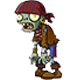
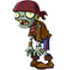
newspaper zombie, drop head features added in

diff --git a/controllers/game.py b/controllers/game.py
@@ -1,12 +1,11 @@
 from controllers.base import PygameController
 import pygame
 import random
-from models import Map, Sunflower, PeaShooter, Norzombie, GameState, SnowPea, Wallnut, Buckethead, LycheeBomb
+from models import Map, Sunflower, PeaShooter, Norzombie, GameState, SnowPea, Wallnut, Buckethead, LycheeBomb, Newspaper, newspaper
 from views import MainView
 from datetime import datetime
 import threading
 import requests
-
 
 class GameController(PygameController):
     def __init__(self, username):
@@ -54,14 +53,25 @@ class GameController(PygameController):
         some time to plant sunflower first, since I only draw a 800*560 pygame interface
         player may not see zombies when it spawns. Once it walks in to my interface,
         player can see it """
+        time_count = 0
         for i in range(1, 7):
             normaldis = random.randint(1,3) * 200
-            normalzombie = Norzombie(800+ normaldis, i * 80, self, self.MainView)
-            self.zombie_list.append(normalzombie)
-
+            normalzombie = Norzombie(800 + normaldis, i * 80, self, self.MainView)
             bucketdis = random.randint(12,20) * 50
-            buckethead = Buckethead(800+ bucketdis, i * 80, self, self.MainView)
-            self.zombie_list.append(buckethead)
+            buckethead = Buckethead(800 + bucketdis, i * 80, self, self.MainView)
+            newsdis = random.randint(2,5) * 100
+            newspaper = Newspaper(800 + newsdis, i * 80, self, self.MainView)
+            news = time_count // 5
+            buck = time_count // 10
+            if news != 0 or buck != 0 or time_count == 0:
+                self.zombie_list.append(normalzombie)
+                time_count += 1
+            if news == 0:
+                self.zombie_list.append(newspaper)
+                time_count += 1
+            if buck // 10 == 0:
+                self.zombie_list.append(buckethead)
+                time_count += 2
 
 ###-------create part done-------------------------------------
 
@@ -83,6 +93,8 @@ class GameController(PygameController):
                     plant.shot()
                 elif isinstance(plant, LycheeBomb):
                     plant.explode()
+                elif isinstance(plant, Wallnut):
+                    plant.crack()
             else:
                 self.plants_list.remove(plant)
 
@@ -90,6 +102,10 @@ class GameController(PygameController):
         """Check zombie status, then take action, if it is dead, remove from zombies list"""
         for zombie in self.zombie_list:
             if zombie.live:
+                if isinstance(zombie, Buckethead):
+                    zombie.losehead()
+                if isinstance(zombie, Newspaper):
+                    zombie.losepaper()
                 zombie.move_zombie()
                 zombie.hit_plant()
             else:
@@ -201,7 +217,7 @@ class GameController(PygameController):
             self.MainView.display_update()
 
     def endgame(self):
-        self.MainView.window.blit(self.MainView.draw_text('GAMEOVER', 50, (255, 0, 0)), (300, 200))
+        self.MainView.window.blit(self.MainView.draw_text('GAMEOVER', 100, (255, 0, 0)), (200, 200))
         pygame.display.flip()
         pygame.time.wait(1000)
         self.GAMEOVER = True

diff --git a/models/newspaper.py b/models/newspaper.py
@@ -1,38 +1,38 @@
 import pygame
 from .zombie import Zombie
 
-
-class Buckethead(Zombie):
+class Newspaper(Zombie):
     def __init__(self,x,y, MainGame, MainView):
-        super(Buckethead, self).__init__(MainGame, MainView)
-        self.image = pygame.image.load('./imgs/buckethead.png')
+        super(Newspaper, self).__init__(MainGame, MainView)
+        self.image = pygame.image.load('./imgs/newspaper.png')
         self.rect = self.image.get_rect()
         self.rect.x = x
         self.rect.y = y
-        self.hp = 700
+        self.hp = 600
         self.damage = 2
         self.speed = 1
         self.live = True
         self.stop = False
 
-    def losehead(self):
+        
+    def losepaper(self):
         if self.hp == 400:
-            self.image = pygame.image.load('./imgs/losehead.png')
+            self.image = pygame.image.load('./imgs/losepaper.png')
 
-            
+
     def move_zombie(self):
         if self.live and not self.stop:
             self.rect.x -= self.speed
             if self.rect.x < -80:
                 self.MainGame.endgame()
 
-
     def hit_plant(self):
         for plant in self.MainGame.plants_list:
-            if pygame.sprite.collide_rect(self,plant):
+            if pygame.sprite.collide_rect(self,plant) and plant.live:
                 self.stop = True
                 self.eat_plant(plant)
-
+            else:
+                self.stop = False
 
     def eat_plant(self,plant):
         plant.hp -= self.damage
@@ -43,7 +43,6 @@ class Buckethead(Zombie):
             map.can_grow = True
             plant.live = False
             self.stop = False
-
 
     def display_zombie(self):
         self.MainView.window.blit(self.image, self.rect)

diff --git a/views/main.py b/views/main.py
@@ -78,7 +78,7 @@ class MainView:
 
     def display_help_text(self):
         text1 = self.draw_text('INSTRUCTION: Move your mouse to empty field, use keyboard number keys to create plants', 20, (255, 0, 0))
-        text2 = self.draw_text('Num 1 - Sunflowers | Num 2 - PeaShooter | Num 3 - Snowpea | Num 4 - Walnut', 20, (255, 0, 0))
+        text2 = self.draw_text('Num 1 - Sunflowers | Num 2 - PeaShooter | Num 3 - Snowpea | Num 4 - Walnut | Num 5 - Lycheebomb', 20, (255, 0, 0))
         self.window.blit(text1, (5, 5))
         self.window.blit(text2, (5, 20))
 

diff --git a/models/wallnut.py b/models/wallnut.py
@@ -14,3 +14,9 @@ class Wallnut(Plant):
 
     def display_wallnut(self):
         self.MainView.window.blit(self.image,self.rect)
+
+    def crack(self):
+        if self.hp == 300:
+            self.image = pygame.image.load('./imgs/cracked.png')
+        if self.hp == 100:
+            self.image = pygame.image.load('./imgs/broken.png')

diff --git a/app.py b/app.py
@@ -24,7 +24,7 @@ def to_dict(player):
     return player_state
 
 app = Flask(__name__)
-##### Rewrite #############################
+##### Rewrite needed #############################
 @app.route('/')
 def index():
     return render_template("index.html", games=[to_dict(player)])

diff --git a/models/zombie.py b/models/zombie.py
@@ -10,3 +10,6 @@ class Zombie(pygame.sprite.Sprite):
     def load_image(self):
         if hasattr(self, 'image') and hasattr(self, 'rect'):
             self.MainView.window.blit(self.image, self.rect)
+    
+
+    

diff --git a/models/__init__.py b/models/__init__.py
@@ -10,3 +10,4 @@ from .lychee_bomb import LycheeBomb
 from .wallnut import Wallnut
 from .buckethead import Buckethead
 from .normalzombie import Norzombie
+from .newspaper import Newspaper

diff --git a/README.md b/README.md
@@ -1,0 +1,17 @@
+# PythonPlantsVsZombies
+  A simple PlantsVsZombies game. <br>
+* implement plants: sunflower, peashooter, wallnut, snowpeashooter, cherrybomb 
+* implement zombies: zombie,bucketheadzombie
+* use json file to store level data
+
+
+# Requirement
+* Python 3.7 
+* Python-Pygame 1.9
+
+# How To Start Game
+$ python app.py USERNAME
+
+# How to Play
+* use mouse to move cursor over empty field, use keyboard to create plants on cursor
+
